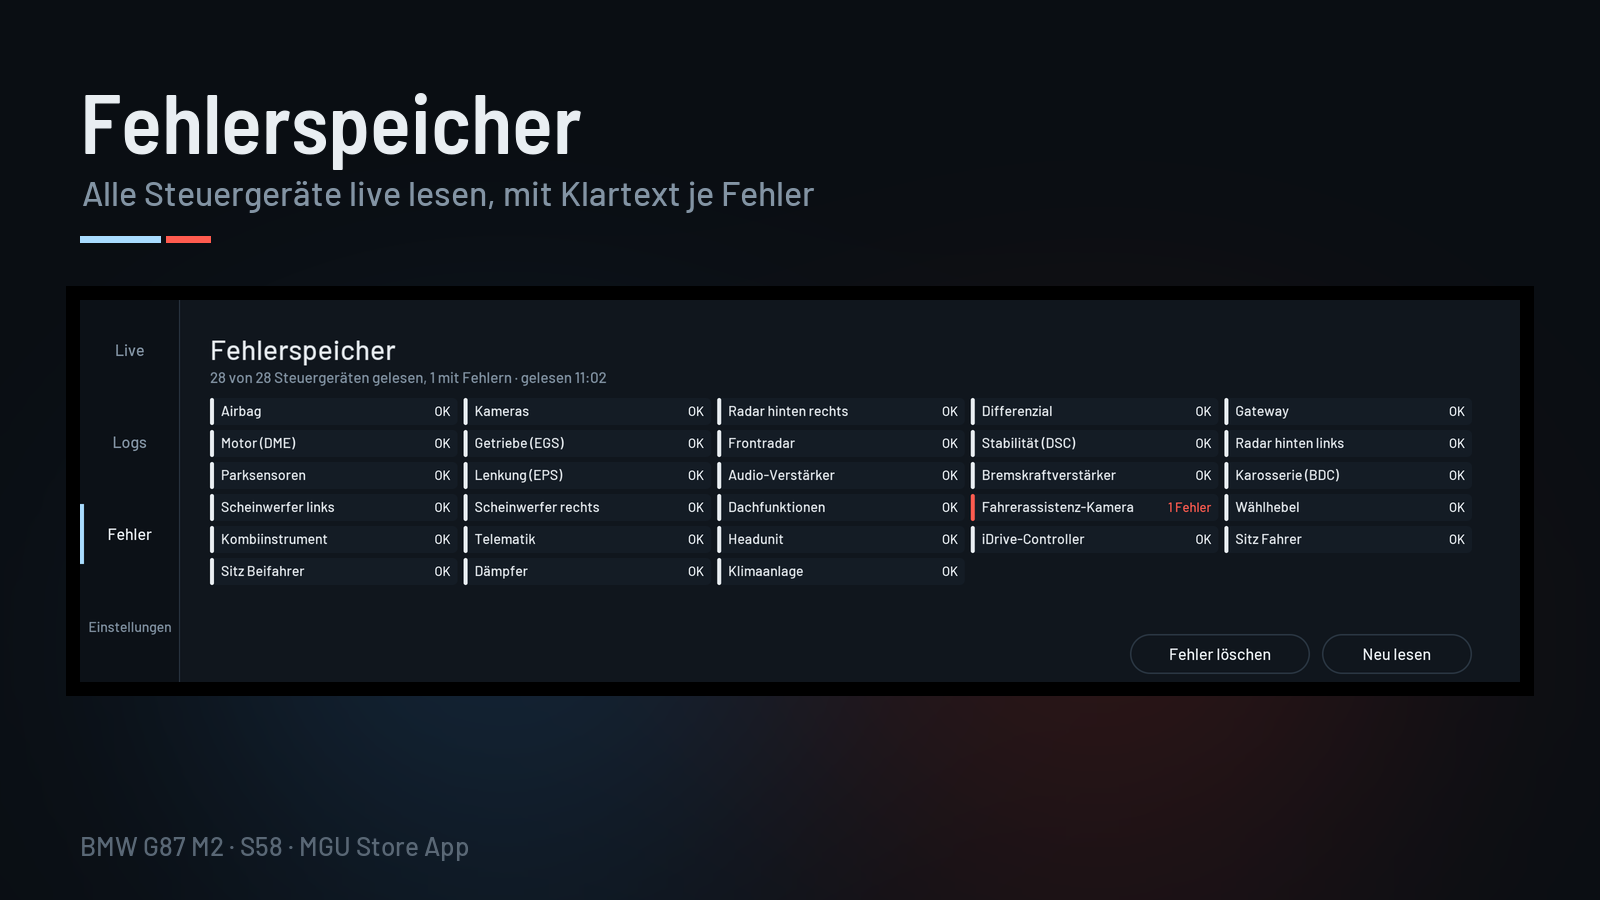
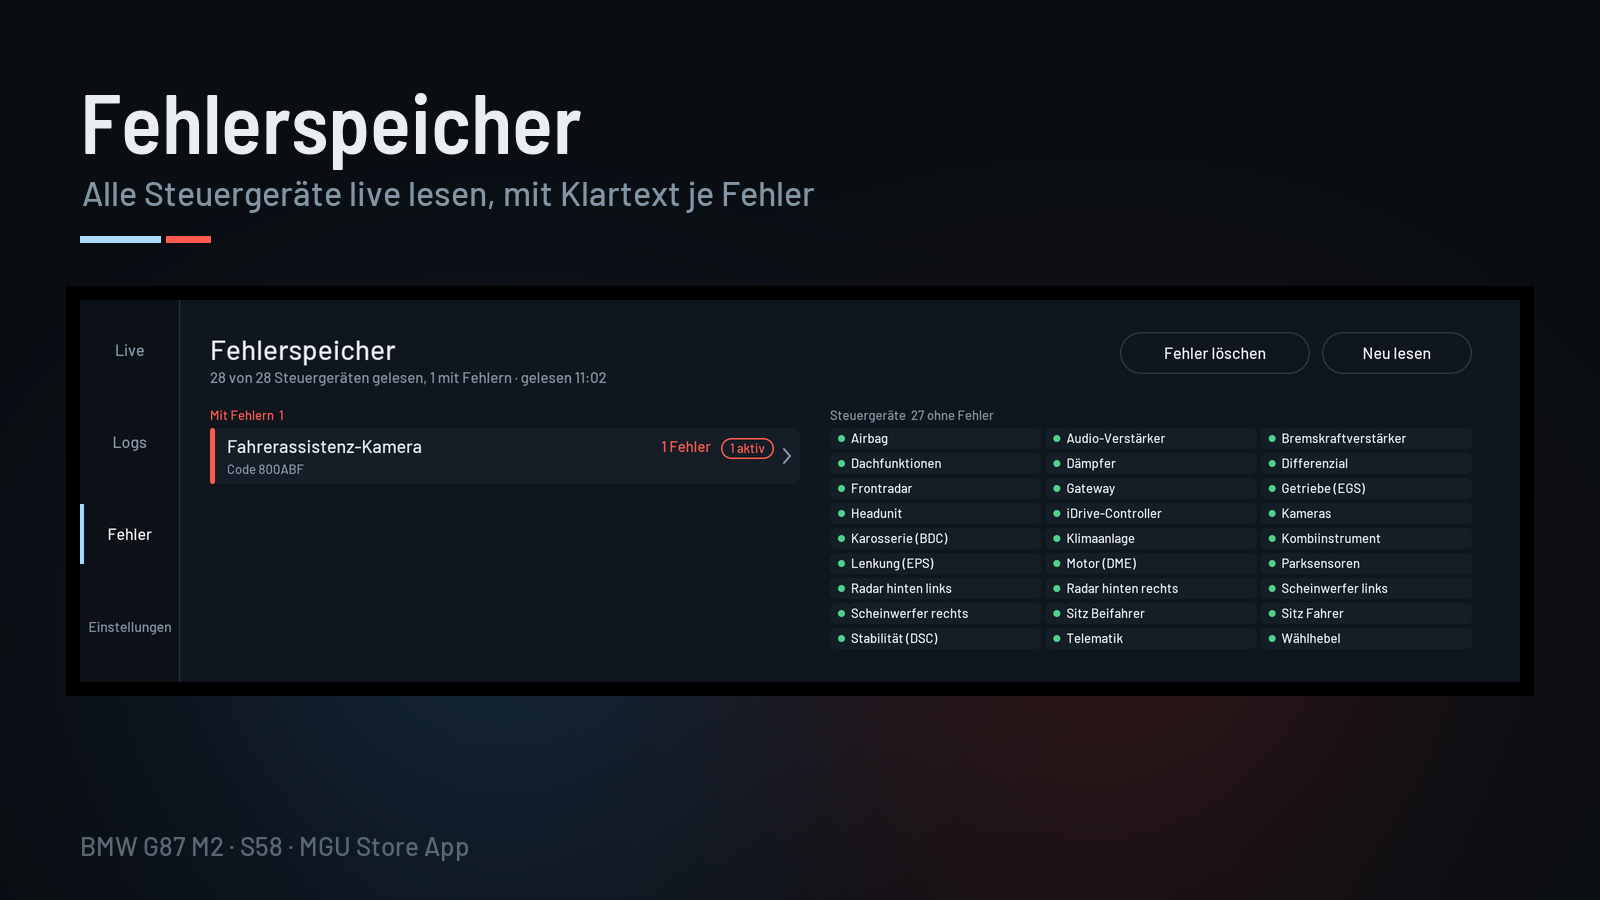
0.19.0: the fault page sorted: cards for the units with entries (active first, with the first entry's meaning), every other unit as a chip, progress while reading, buttons at the top

diff --git a/apps/km_motordaten/src/dash.js b/apps/km_motordaten/src/dash.js
@@ -149,26 +149,42 @@ const CHANNELS = [
 
 const FAULT_ROWS = 8;
 
-/* The fault page's grid: every unit a tile, 5 across. */
-const GRID = { cols: 5, x: X0, y: 196, w: W - PAD - X0, rowH: 64, gap: 12 };
-function tileBox(i) {
-    const cw = (GRID.w - GRID.gap * (GRID.cols - 1)) / GRID.cols;
-    return { x: GRID.x + (i % GRID.cols) * (cw + GRID.gap), y: GRID.y + Math.floor(i / GRID.cols) * GRID.rowH, w: cw, h: GRID.rowH - 10 };
+/*
+ * The fault page, sorted: on the left a card for each unit with entries (active ones first, then by how many),
+ * with its first entry's meaning; on the right every other unit as a chip, those still to read or being read,
+ * then the ones without entries, then those that gave none (refused, silent, not read). Units with entries past
+ * the cards show as red chips first. Each unit with entries opens its page.
+ */
+const FAULT_PANEL = { cards: { x: X0, y: 256, w: 1180, h: 112, gap: 14, max: 4 },
+    chips: { x: X0 + 1240, y: 256, w: W - PAD - X0 - 1240, cols: 3, h: 42, gap: 8 } };
+const CHIP_ORDER = { faults: 0, read: 1, wait: 2, ok: 3, refused: 4, none: 5, error: 6 };
+
+function faultLayout(f) {
+    const scan = (f && f.scan) || [];
+    const active = (u) => u.entries.filter((e) => e.state === 'aktiv').length;
+    const faulty = scan.filter((u) => u.state === 'faults')
+        .sort((a, b) => (active(b) - active(a)) || (b.entries.length - a.entries.length) || a.name.localeCompare(b.name, 'de'));
+    const P = FAULT_PANEL.cards;
+    const cards = faulty.slice(0, P.max).map((u, i) => ({ u, box: { x: P.x, y: P.y + i * (P.h + P.gap), w: P.w, h: P.h } }));
+    const rest = faulty.slice(P.max).concat(scan.filter((u) => u.state !== 'faults')
+        .sort((a, b) => (CHIP_ORDER[a.state] - CHIP_ORDER[b.state]) || a.name.localeCompare(b.name, 'de')));
+    const Q = FAULT_PANEL.chips;
+    const cw = (Q.w - Q.gap * (Q.cols - 1)) / Q.cols;
+    const chips = rest.map((u, i) => ({ u, box: { x: Q.x + (i % Q.cols) * (cw + Q.gap), y: Q.y + Math.floor(i / Q.cols) * (Q.h + Q.gap),
+        w: cw, h: Q.h } }));
+    return { faulty, cards, chips };
 }
 
 function faultsTargets(extra) {
     const f = (extra && extra.faults) || {};
     const out = [];
-    // the units with entries open their page
-    (f.scan || []).forEach((u, i) => {
-        if (u.state === 'faults') {
-            out.push(Object.assign({ id: `unit:${u.addr}`, label: u.name }, tileBox(i)));
-        }
-    });
-    out.push({ id: 'faults:read', x: W - PAD - 300, y: 668, w: 300, h: 80, label: 'Neu lesen' });
+    const L2 = faultLayout(f);
+    L2.cards.concat(L2.chips).filter((c) => c.u.state === 'faults')
+        .forEach((c) => out.push(Object.assign({ id: `unit:${c.u.addr}`, label: c.u.name }, c.box)));
+    out.push({ id: 'faults:read', x: W - PAD - 300, y: 64, w: 300, h: 84, label: 'Neu lesen' });
     if (f.entries && f.entries.length && !f.reading) {
         const confirm = !!f.confirmClear;
-        out.push({ id: confirm ? 'faults:clear!' : 'faults:clear', x: W - PAD - 300 - 24 - 360, y: 668, w: 360, h: 80,
+        out.push({ id: confirm ? 'faults:clear!' : 'faults:clear', x: W - PAD - 300 - 24 - 380, y: 64, w: 380, h: 84,
             label: confirm ? 'Wirklich löschen' : 'Fehler löschen', danger: confirm });
     }
     return out;
@@ -626,36 +642,90 @@ function faultsPage(rec, ui, extra) {
     }
     rec.text(note, X0, 166, 30, f.error || f.warn || f.units === 0 ? C.limit : C.dim, { font: 'label' });
 
-    scan.forEach((u, i) => {
-        const b = tileBox(i);
-        const look = u.state === 'read' && u.try > 1 ? { color: C.ice, text: `liest … (${u.try}.)` } : TILE[u.state] || TILE.wait;
-        const id = `unit:${u.addr}`;
-        if (ui && ui.pressed === id) {
-            rec.roundRect(b.x, b.y, b.w, b.h, 10, C.line);
-        } else {
-            rec.roundRect(b.x, b.y, b.w, b.h, 10, '#141C25');
-        }
+    const lay = faultLayout(f);
+    const P = FAULT_PANEL.cards;
+    const Q = FAULT_PANEL.chips;
+    const frame = (b, id, radius) => {
+        rec.roundRect(b.x, b.y, b.w, b.h, radius, ui && ui.pressed === id ? C.line : '#151D26');
         if (ui && ui.focus === id) {
-            rec.strokeRoundRect(b.x - 4, b.y - 4, b.w + 8, b.h + 8, 12, 4, C.ice);
+            rec.strokeRoundRect(b.x - 5, b.y - 5, b.w + 10, b.h + 10, radius + 4, 4, C.ice);
         }
-        rec.roundRect(b.x, b.y, 8, b.h, 4, look.color);
-        let words = look.text === null ? `${u.entries.length} Fehler` : look.text;
+    };
+
+    // left: the units with entries, or how it stands without any
+    rec.text(lay.faulty.length ? `Mit Fehlern  ${lay.faulty.length}` : 'Mit Fehlern', P.x, P.y - 16, 26, lay.faulty.length ? C.limit : C.dim,
+        { font: 'label' });
+    if (!lay.faulty.length) {
+        const done = !f.reading && f.units > 0;
+        const b = { x: P.x, y: P.y, w: P.w, h: 2 * P.h + P.gap };
+        rec.roundRect(b.x, b.y, b.w, b.h, 18, '#151D26');
+        if (f.reading) {
+            // how far the reading is: units read of all, as a bar
+            const n = (f.scan || []).filter((u) => u.state !== 'wait' && u.state !== 'read').length;
+            const of = (f.scan || []).length || 1;
+            rec.text('Liest die Steuergeräte', b.x + 40, b.y + 74, 40, C.text, { font: 'label' });
+            rec.text(`${n} von ${of}`, b.x + b.w - 40, b.y + 74, 40, C.ice, { font: 'label', align: 'right' });
+            rec.roundRect(b.x + 40, b.y + 120, b.w - 80, 18, 9, C.line);
+            rec.roundRect(b.x + 40, b.y + 120, Math.max(18, (b.w - 80) * n / of), 18, 9, C.ice);
+            rec.text('Nur lesend. Steuergeräte mit Fehlern erscheinen hier.', b.x + 40, b.y + 192, 26, C.dim, { font: 'label' });
+        } else {
+            rec.roundRect(b.x + 40, b.y + b.h / 2 - 22, 44, 44, 22, done ? C.ok : C.line);
+            rec.text(done ? 'Keine Fehler gespeichert' : 'Noch nicht gelesen', b.x + 112, b.y + b.h / 2 + 14, 44,
+                done ? C.text : C.dim, { font: 'label' });
+        }
+    }
+    lay.cards.forEach(({ u, box }) => {
+        const id = `unit:${u.addr}`;
+        frame(box, id, 16);
+        const act = u.entries.filter((e) => e.state === 'aktiv').length;
+        rec.roundRect(box.x, box.y, 10, box.h, 5, act ? C.limit : C.ice);
+        const first = u.entries[0] || {};
+        const pill = act ? `${act} aktiv` : first.state || '';
+        const count = `${u.entries.length} ${u.entries.length === 1 ? 'Fehler' : 'Fehler'}`;
+        const pw = rec.textWidth(pill, 26, { font: 'label' }) + 36;
+        rec.text(fit(rec, u.name, 36, box.w - pw - 300), box.x + 34, box.y + 50, 36, C.text, { font: 'label' });
+        const pr = box.x + box.w - 52;      // the pill's right edge, left of the chevron
+        rec.text(count, pr - pw - 20, box.y + 48, 30, act ? C.limit : C.ice, { font: 'label', align: 'right' });
+        if (pill) {
+            rec.strokeRoundRect(pr - pw, box.y + 20, pw, 42, 21, 3, act ? C.limit : C.ice);
+            rec.text(pill, pr - pw / 2, box.y + 50, 26, act ? C.limit : C.ice, { font: 'label', align: 'center' });
+        }
+        const meaning = typeof first.text === 'string' ? first.text : `Code ${first.code || ''}`;
+        rec.text(fit(rec, meaning + (u.entries.length > 1 ? `  (+${u.entries.length - 1})` : ''), 26, box.w - 100), box.x + 34, box.y + 92, 26,
+            C.dim, { font: 'label' });
+        // a chevron: it opens
+        const cx = box.x + box.w - 24;
+        rec.polyline([[cx - 8, box.y + box.h / 2 - 14], [cx + 4, box.y + box.h / 2], [cx - 8, box.y + box.h / 2 + 14]], 4, C.dim);
+    });
+    if (lay.faulty.length > P.max) {
+        rec.text(`+ ${lay.faulty.length - P.max} weitere rechts`, P.x, P.y + P.max * (P.h + P.gap) + 6, 26, C.dim, { font: 'label' });
+    }
+
+    // right: every other unit as a chip, the dot saying how it stands
+    const ok = lay.chips.filter((c) => c.u.state === 'ok').length;
+    rec.text(`Steuergeräte  ${ok} ohne Fehler`, Q.x, Q.y - 16, 26, C.dim, { font: 'label' });
+    lay.chips.forEach(({ u, box }) => {
+        const id = `unit:${u.addr}`;
+        const look = u.state === 'read' && u.try > 1 ? { color: C.ice, text: `liest … (${u.try}.)` } : TILE[u.state] || TILE.wait;
+        frame(box, id, 10);
+        const dot = u.state === 'ok' ? C.ok : u.state === 'faults' ? C.limit : u.state === 'read' ? C.ice : '#3A4652';
+        rec.roundRect(box.x + 16, box.y + box.h / 2 - 7, 14, 14, 7, dot);
+        let words = u.state === 'ok' ? '' : u.state === 'faults' ? `${u.entries.length} Fehler` : look.text;
         if (u.state === 'refused' && typeof u.nrc === 'number') {
             words = `abgelehnt ${hexByte(u.nrc)}`;
         }
-        const ww = words ? rec.textWidth(words, 26, { font: 'label' }) : 0;
-        rec.clip(b.x, b.y, b.w - ww - 28, b.h);
-        rec.text(u.name, b.x + 22, b.y + 36, 28, u.state === 'none' || u.state === 'wait' ? C.dim : C.text, { font: 'label' });
-        rec.noclip();
+        const ww = words ? rec.textWidth(words, 22, { font: 'label' }) + 12 : 0;
+        rec.text(fit(rec, u.name, 26, box.w - 54 - ww - 12), box.x + 42, box.y + box.h / 2 + 9, 26,
+            u.state === 'ok' || u.state === 'faults' || u.state === 'read' ? C.text : C.dim, { font: 'label' });
         if (words) {
-            rec.text(words, b.x + b.w - 14, b.y + 36, 26, u.state === 'faults' ? C.limit : u.state === 'ok' ? C.text : C.dim,
+            rec.text(words, box.x + box.w - 12, box.y + box.h / 2 + 8, 22, u.state === 'faults' ? C.limit : u.state === 'read' ? C.ice : C.dim,
                 { font: 'label', align: 'right' });
         }
     });
     faultsTargets(extra).filter((t) => t.id.indexOf('faults:') === 0).forEach((t) => button(rec, t, ui));
     if (f.confirmClear) {
-        rec.text('Löscht die Einträge der roten Steuergeräte (nicht die Headunit). Nur bei Motor aus und Zündung an.',
-            X0, 718, 28, C.dim, { font: 'label' });
+        rec.text('Löscht die Einträge der Steuergeräte mit Fehlern (nicht die Headunit). Nur bei Motor aus und Zündung an.',
+            X0, 166 + 40, 26, C.limit, { font: 'label' });
     }
 }
 
